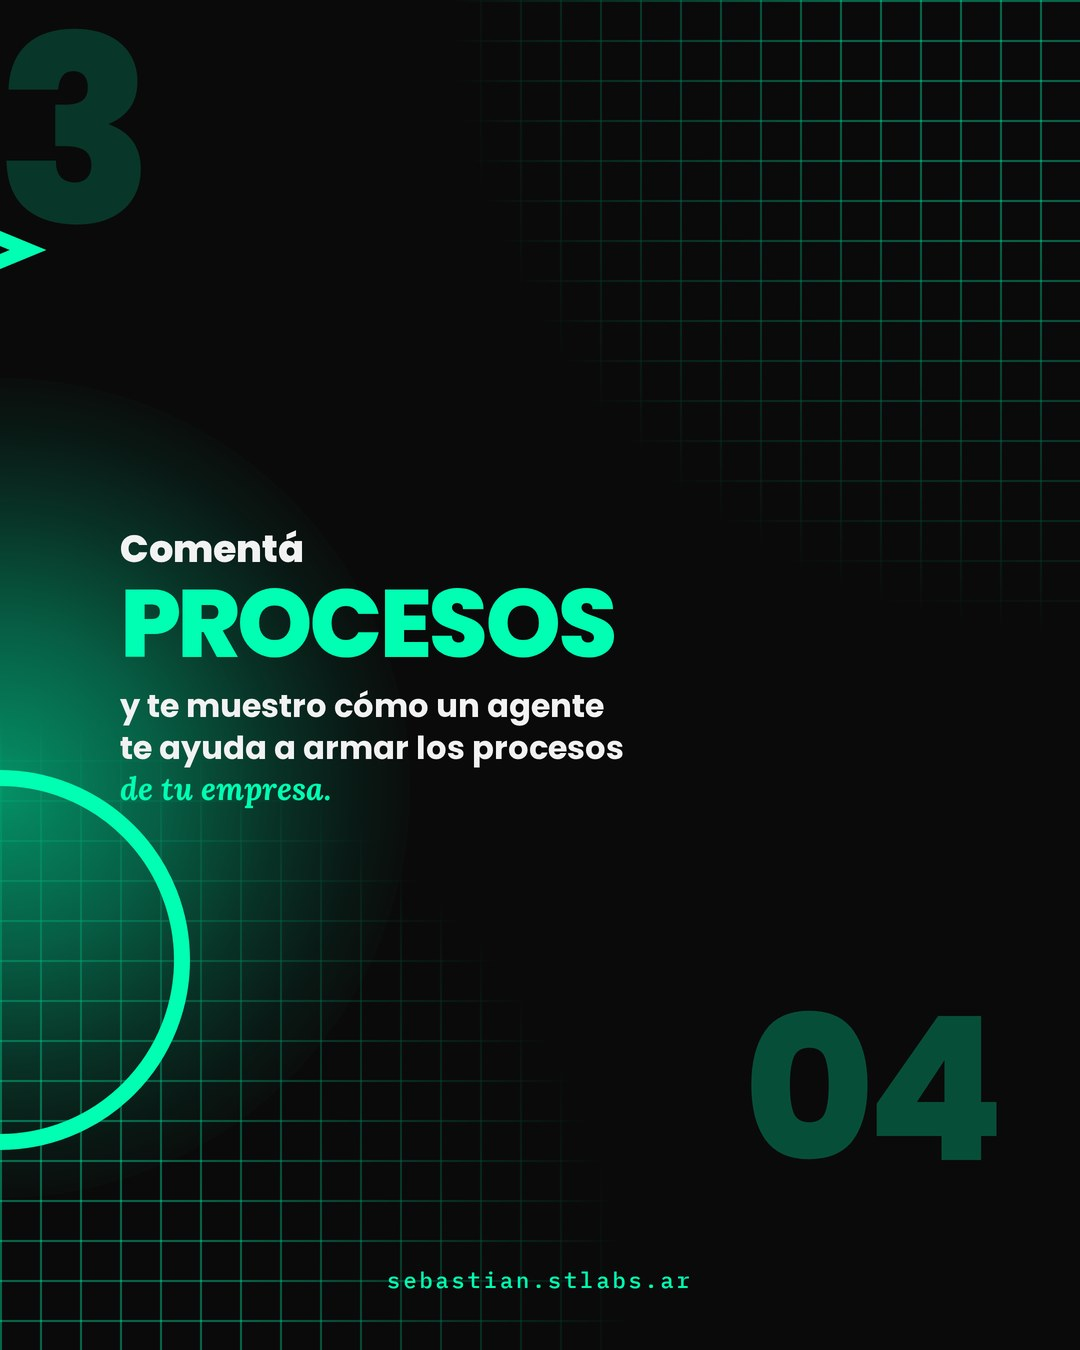
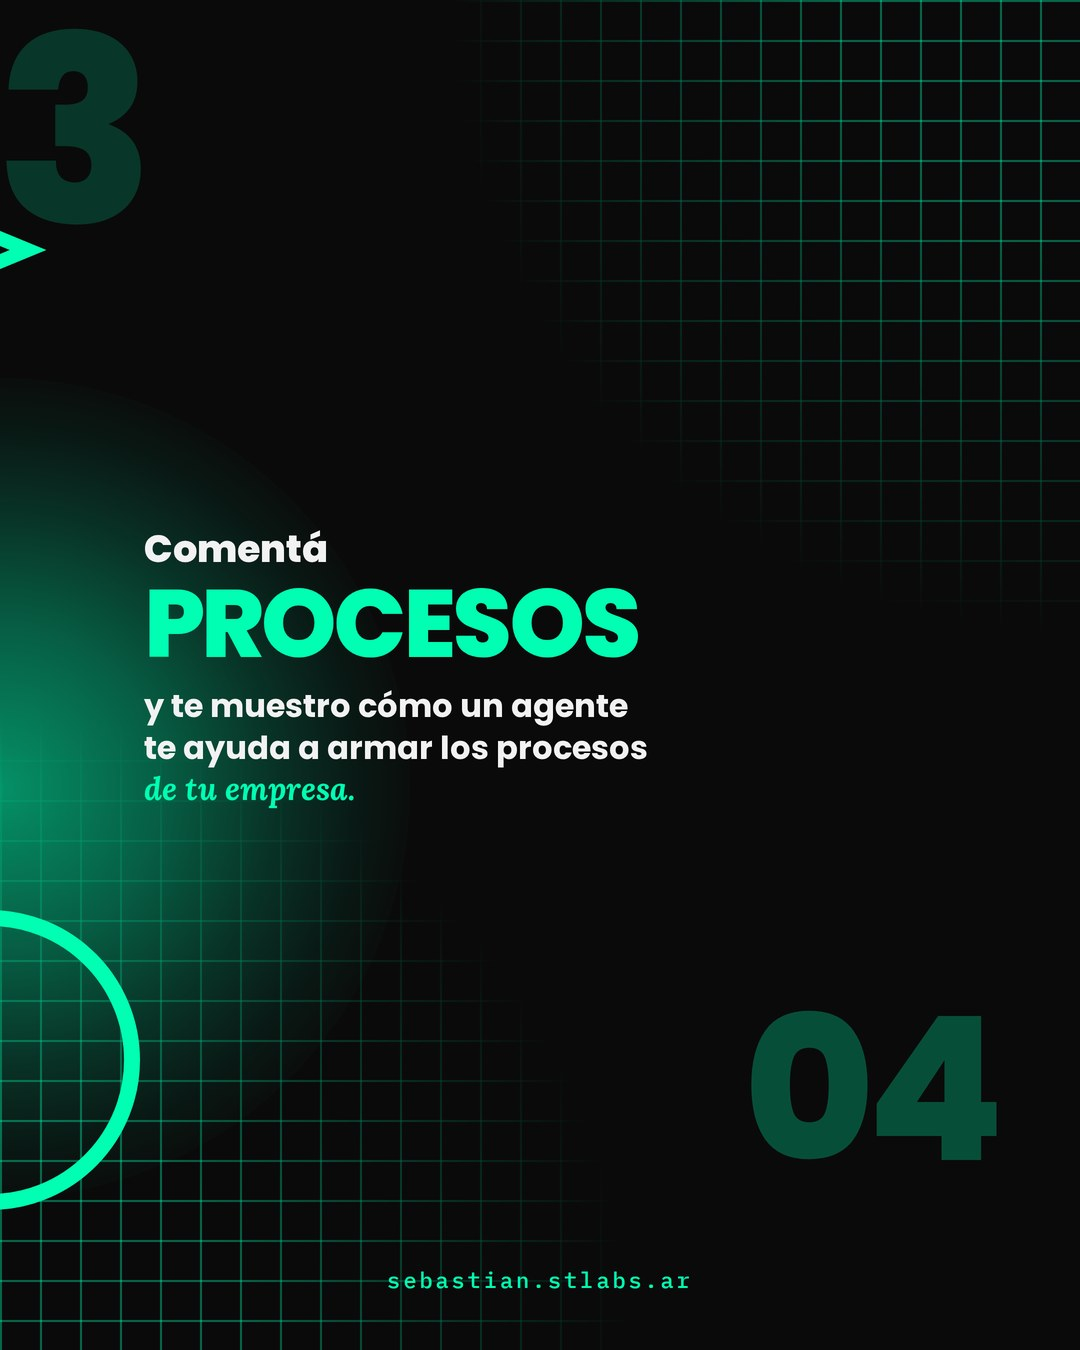
Ajuste final: círculo CTA más afuera del texto

Changed region(s): [[0.0, 0.3733, 0.6111, 0.6533], [0.0, 0.6533, 0.1833, 0.9022], [0.0, 0.6533, 0.0917, 0.7156]]

diff --git a/builds/2026-08-16-frases-continuidad/carrusel-standalone.html b/builds/2026-08-16-frases-continuidad/carrusel-standalone.html
@@ -77,8 +77,13 @@ html, body { background:#000; }
 .geo-circle.geo-in  { left:-190px; top:58%; transform:translateY(-50%); }
 /* Círculo bajo en costura 03↔04: no tapa el CTA */
 .geo-circle.geo-lo {
-  top:auto; bottom:200px; transform:none;
+  top:auto; bottom:140px; transform:none;
+  width:300px; height:300px;
 }
+.geo-circle.geo-out.geo-lo { right:-160px; }
+.geo-circle.geo-in.geo-lo { left:-160px; }
+
+.mid-cta { justify-content:center; padding-left:72px; }
 
 .geo-ring {
   width:560px; height:560px; border-radius:50%;
@@ -107,7 +112,7 @@ html, body { background:#000; }
   display:flex; flex-direction:column; justify-content:center;
 }
 .mid-r { align-items:flex-start; padding-left:168px; }
-.mid-cta { justify-content:center; padding-left:48px; }
+.mid-cta { justify-content:center; padding-left:72px; }
 
 .kicker {
   font-family:'Lora', Georgia, serif; font-style:italic; font-weight:600;

diff --git a/resultados/2026-08-16-frases-continuidad/carrusel-standalone.html b/resultados/2026-08-16-frases-continuidad/carrusel-standalone.html
@@ -77,8 +77,13 @@ html, body { background:#000; }
 .geo-circle.geo-in  { left:-190px; top:58%; transform:translateY(-50%); }
 /* Círculo bajo en costura 03↔04: no tapa el CTA */
 .geo-circle.geo-lo {
-  top:auto; bottom:200px; transform:none;
+  top:auto; bottom:140px; transform:none;
+  width:300px; height:300px;
 }
+.geo-circle.geo-out.geo-lo { right:-160px; }
+.geo-circle.geo-in.geo-lo { left:-160px; }
+
+.mid-cta { justify-content:center; padding-left:72px; }
 
 .geo-ring {
   width:560px; height:560px; border-radius:50%;
@@ -107,7 +112,7 @@ html, body { background:#000; }
   display:flex; flex-direction:column; justify-content:center;
 }
 .mid-r { align-items:flex-start; padding-left:168px; }
-.mid-cta { justify-content:center; padding-left:48px; }
+.mid-cta { justify-content:center; padding-left:72px; }
 
 .kicker {
   font-family:'Lora', Georgia, serif; font-style:italic; font-weight:600;

diff --git a/resultados/2026-08-16-frases-continuidad/carrusel.html b/resultados/2026-08-16-frases-continuidad/carrusel.html
@@ -77,8 +77,13 @@ html, body { background:#000; }
 .geo-circle.geo-in  { left:-190px; top:58%; transform:translateY(-50%); }
 /* Círculo bajo en costura 03↔04: no tapa el CTA */
 .geo-circle.geo-lo {
-  top:auto; bottom:200px; transform:none;
+  top:auto; bottom:140px; transform:none;
+  width:300px; height:300px;
 }
+.geo-circle.geo-out.geo-lo { right:-160px; }
+.geo-circle.geo-in.geo-lo { left:-160px; }
+
+.mid-cta { justify-content:center; padding-left:72px; }
 
 .geo-ring {
   width:560px; height:560px; border-radius:50%;
@@ -107,7 +112,7 @@ html, body { background:#000; }
   display:flex; flex-direction:column; justify-content:center;
 }
 .mid-r { align-items:flex-start; padding-left:168px; }
-.mid-cta { justify-content:center; padding-left:48px; }
+.mid-cta { justify-content:center; padding-left:72px; }
 
 .kicker {
   font-family:'Lora', Georgia, serif; font-style:italic; font-weight:600;

diff --git a/builds/2026-08-16-frases-continuidad/generate.py b/builds/2026-08-16-frases-continuidad/generate.py
@@ -229,8 +229,11 @@ html, body {{ background:#000; }}
 .geo-circle.geo-in  {{ left:-190px; top:58%; transform:translateY(-50%); }}
 /* Círculo bajo en costura 03↔04: no tapa el CTA */
 .geo-circle.geo-lo {{
-  top:auto; bottom:200px; transform:none;
+  top:auto; bottom:140px; transform:none;
+  width:300px; height:300px;
 }}
+.geo-circle.geo-out.geo-lo {{ right:-160px; }}
+.geo-circle.geo-in.geo-lo {{ left:-160px; }}
 
 .geo-ring {{
   width:560px; height:560px; border-radius:50%;
@@ -259,7 +262,7 @@ html, body {{ background:#000; }}
   display:flex; flex-direction:column; justify-content:center;
 }}
 .mid-r {{ align-items:flex-start; padding-left:168px; }}
-.mid-cta {{ justify-content:center; padding-left:48px; }}
+.mid-cta {{ justify-content:center; padding-left:72px; }}
 
 .kicker {{
   font-family:'Lora', Georgia, serif; font-style:italic; font-weight:600;
